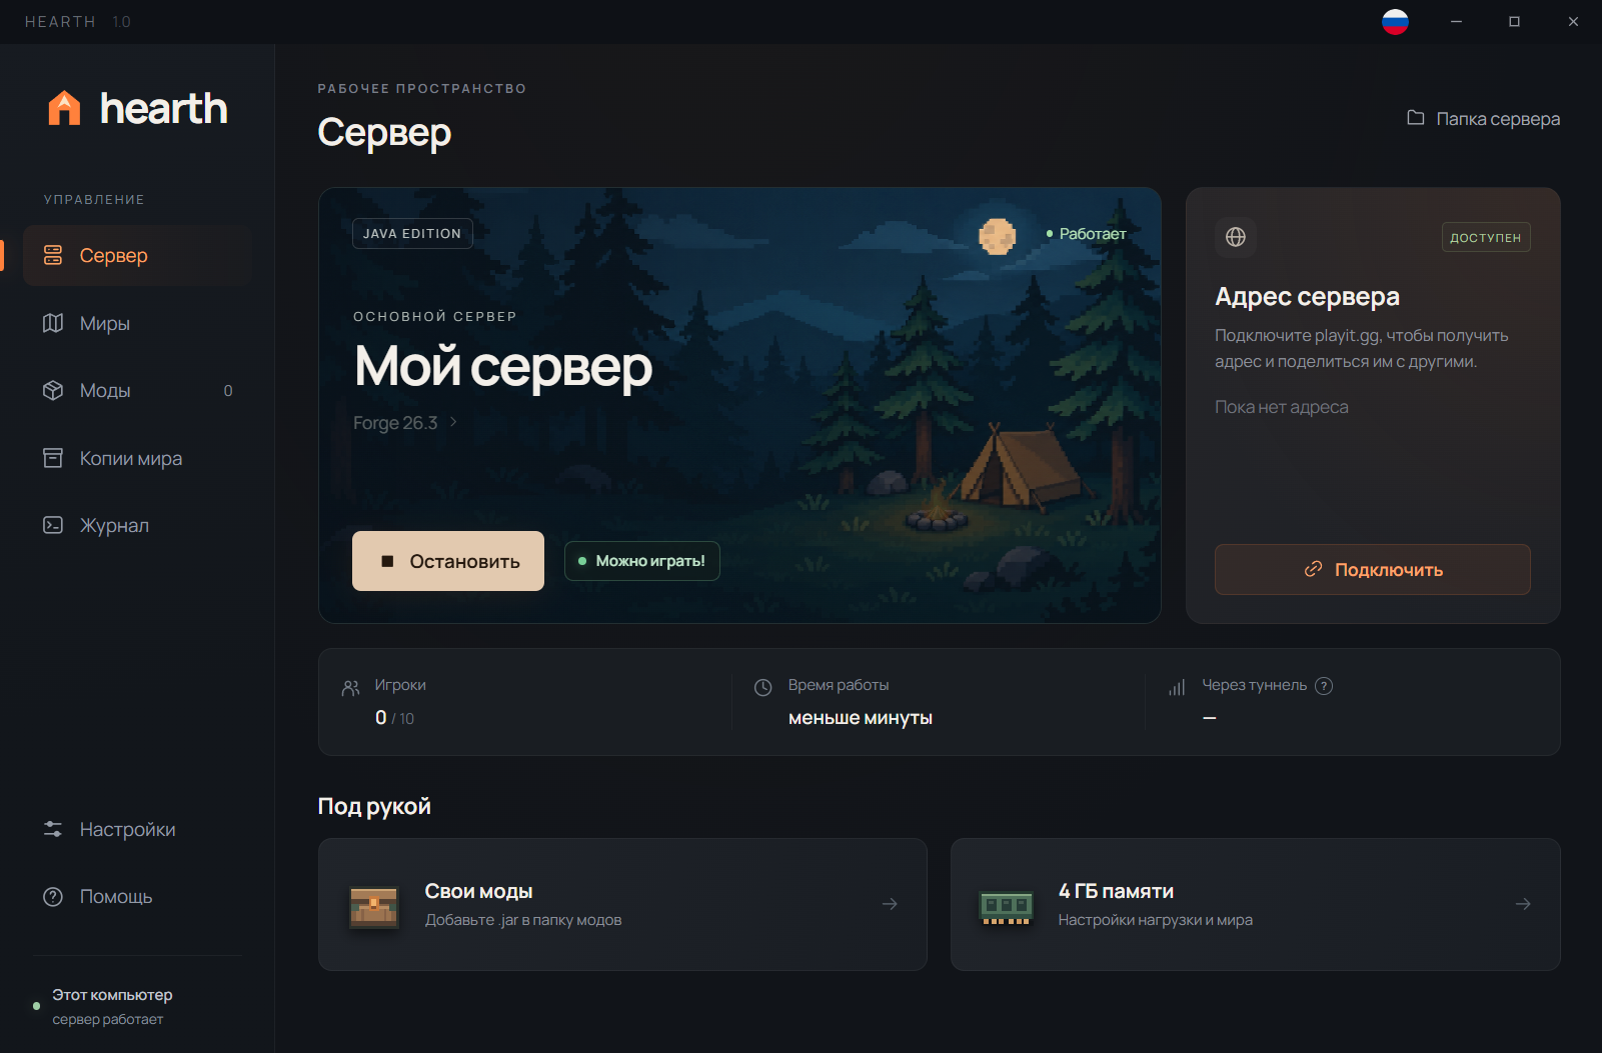
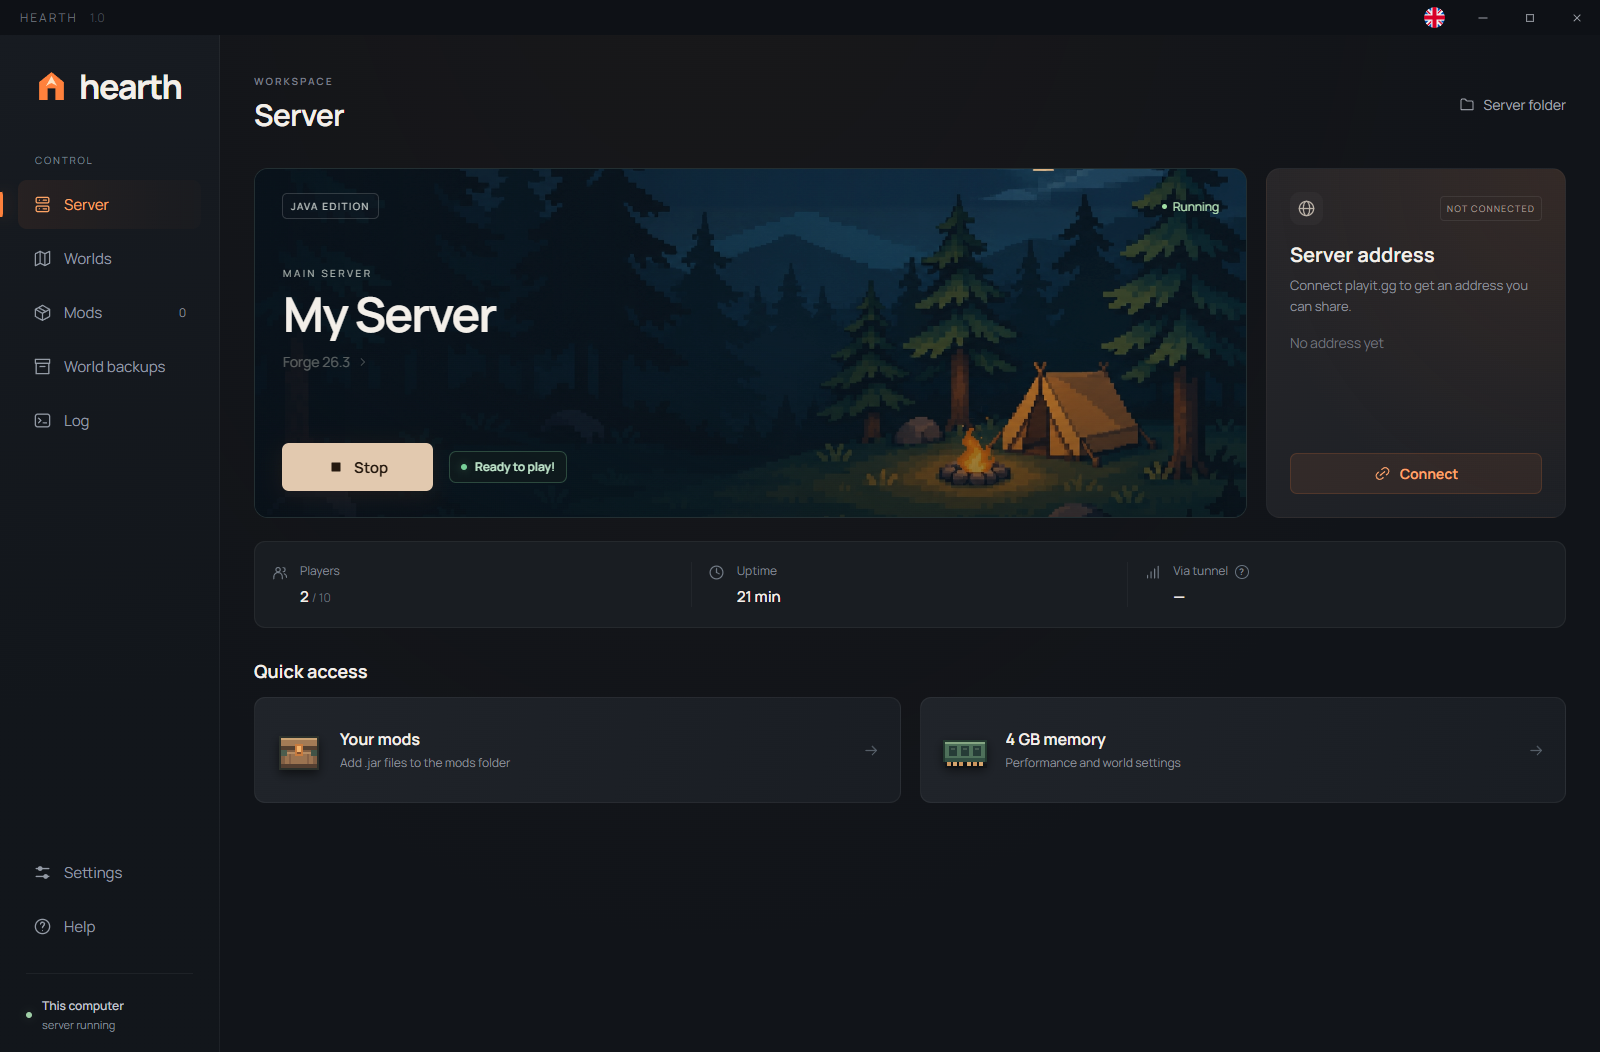
Show English UI and player inventory

diff --git a/README.md b/README.md
@@ -2,9 +2,15 @@
 
 Host a Minecraft Java server from your Windows PC. Choose a world, start the server, and share an address through playit.gg.
 
+Screenshots use sample worlds and player data.
+
 ![Hearth server screen](assets/server.png)
 
 ![World selection](assets/worlds.png)
+
+Player details:
+
+![Health, food, experience, and inventory](assets/players.png)
 
 Hearth supports Fabric, Forge, and NeoForge. It keeps worlds, mods, backups, and server settings together, and shows player status from saved world data.
 
